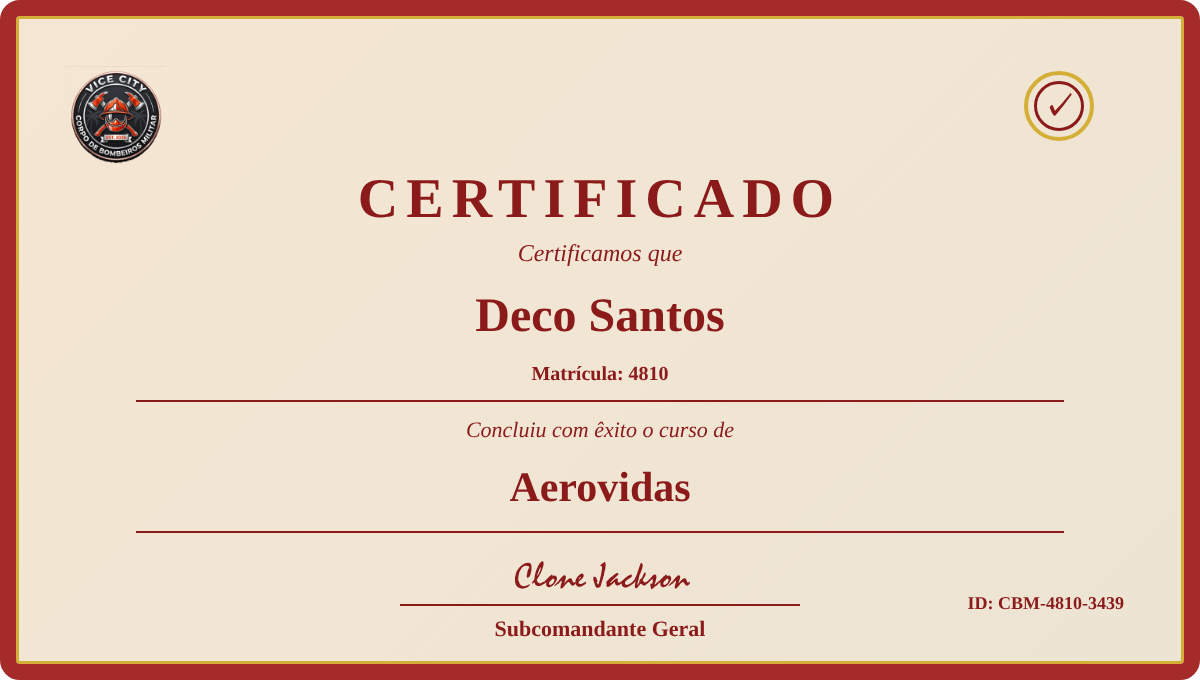
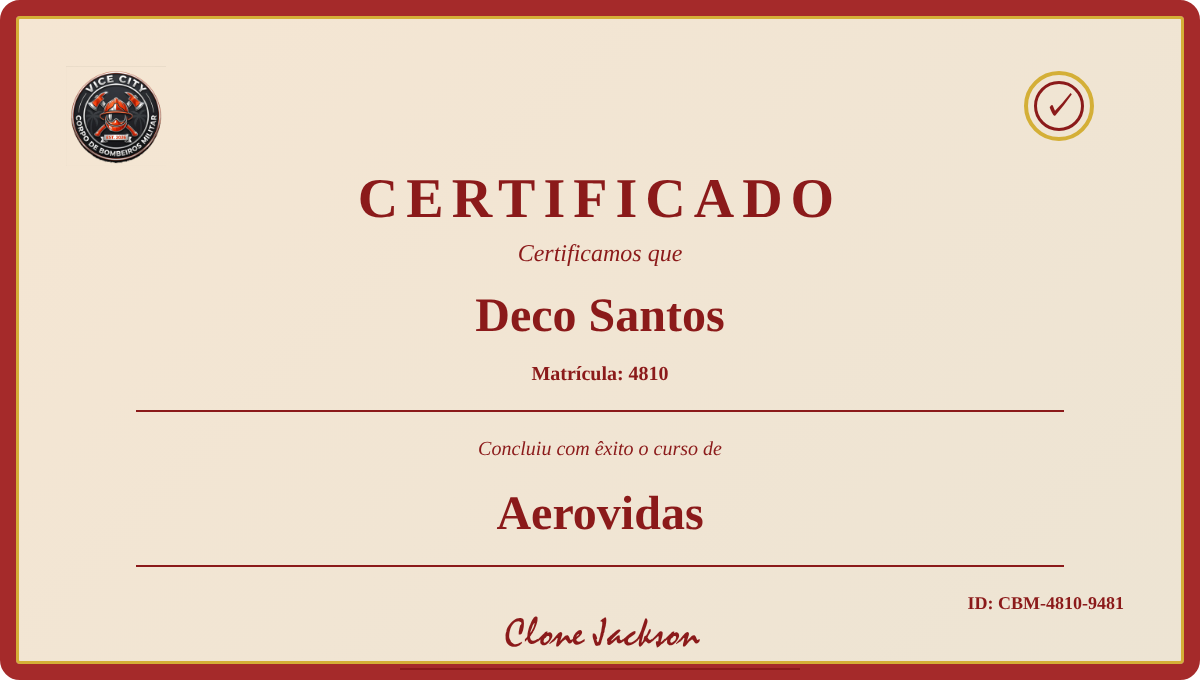
Checkpoint: Checkpoint saved: Design do Certificado Atualizado
✅ **Mudanças Implementadas:**
Ajustei o design do certificado para corresponder melhor ao modelo fornecido, com espaçamento otimizado e layout mais limpo:

1. **Espaçamento melhorado:**
   - Matrícula: margin-bottom aumentado de 15px para 25px
   - Linha divisória: margin aumentado de 15px para 20px
   - Texto "Concluiu com êxito": margin de 25px 0 20px 0
   - Nome do curso: margin de 25px 0
   - Seção de assinatura: margin-top de 20px para 40px

2. **Ajustes tipográficos:**
   - Texto "Concluiu com êxito o curso de": reduzido de 22px para 20px
   - Nome do curso: aumentado de 42px para 48px (mais destaque)
   - Assinatura do instrutor: aumentado de 36px para 40px
   - Linha de assinatura: margin ajustado para 10px auto 15px auto

3. **Logo mantido:**
   - Logo circular original do CBM mantido (não o certificado completo)
   - URL: https://files.manuscdn.com/user_upload_by_module/session_file/310519663187653950/EgsUSXxNqzyvoFzI.png

✅ **Teste realizado:**
- Certificado gerado com sucesso ✓
- Tamanho: 164KB
- Layout mais espaçado e profissional

✅ **Arquivos modificados:**
- /server/certificates.ts - Espaçamentos e tamanhos de fonte ajustados

Changed region(s): [[0.1233, 0.5868, 0.8942, 0.9574], [0.8942, 0.8647, 0.9558, 0.8956]]

diff --git a/server/certificates.ts b/server/certificates.ts
@@ -164,7 +164,7 @@ export async function generateCertificateImage(data: CertificateData): Promise<B
         
         .student-id {
           text-align: center;
-          margin-bottom: 15px;
+          margin-bottom: 25px;
         }
         
         .student-id p {
@@ -177,56 +177,56 @@ export async function generateCertificateImage(data: CertificateData): Promise<B
           width: calc(100% - 120px);
           height: 2px;
           background: #8B1A1A;
-          margin: 15px auto;
+          margin: 20px auto;
         }
         
         .course-intro {
           text-align: center;
-          margin: 15px 0;
+          margin: 25px 0 20px 0;
         }
         
         .course-intro p {
-          font-size: 22px;
+          font-size: 20px;
           color: #8B1A1A;
           font-style: italic;
         }
         
         .course-name {
           text-align: center;
-          margin: 20px 0;
+          margin: 25px 0;
         }
         
         .course-name h2 {
-          font-size: 42px;
+          font-size: 48px;
           color: #8B1A1A;
           font-weight: bold;
           margin: 0;
         }
         
         .signature-section {
-          margin-top: 20px;
+          margin-top: 40px;
           text-align: center;
         }
         
         .signature {
           font-family: 'Optimistral', Georgia, cursive;
-          font-size: 36px;
+          font-size: 40px;
           color: #8B1A1A;
-          margin-bottom: 5px;
+          margin-bottom: 10px;
         }
         
         .signature-line {
           width: 400px;
           height: 1.5px;
           background: #8B1A1A;
-          margin: 0 auto 10px auto;
+          margin: 10px auto 15px auto;
         }
         
         .instructor-rank {
           font-size: 22px;
           color: #8B1A1A;
           font-weight: bold;
-          margin-top: 5px;
+          margin-top: 0;
         }
         
         .certificate-id {

diff --git a/todo.md b/todo.md
@@ -1602,3 +1602,9 @@
 - [x] Verificar configuração do Puppeteer no código
 - [x] Implementar solução alternativa se necessário
 - [x] Testar geração de certificado
+
+## Fase 105: Atualizar Design do Certificado
+- [x] Analisar diferenças entre design atual e modelo fornecido
+- [x] Implementar novo design no certificates.ts
+- [x] Testar geração com novo design
+- [ ] Validar com usuário
